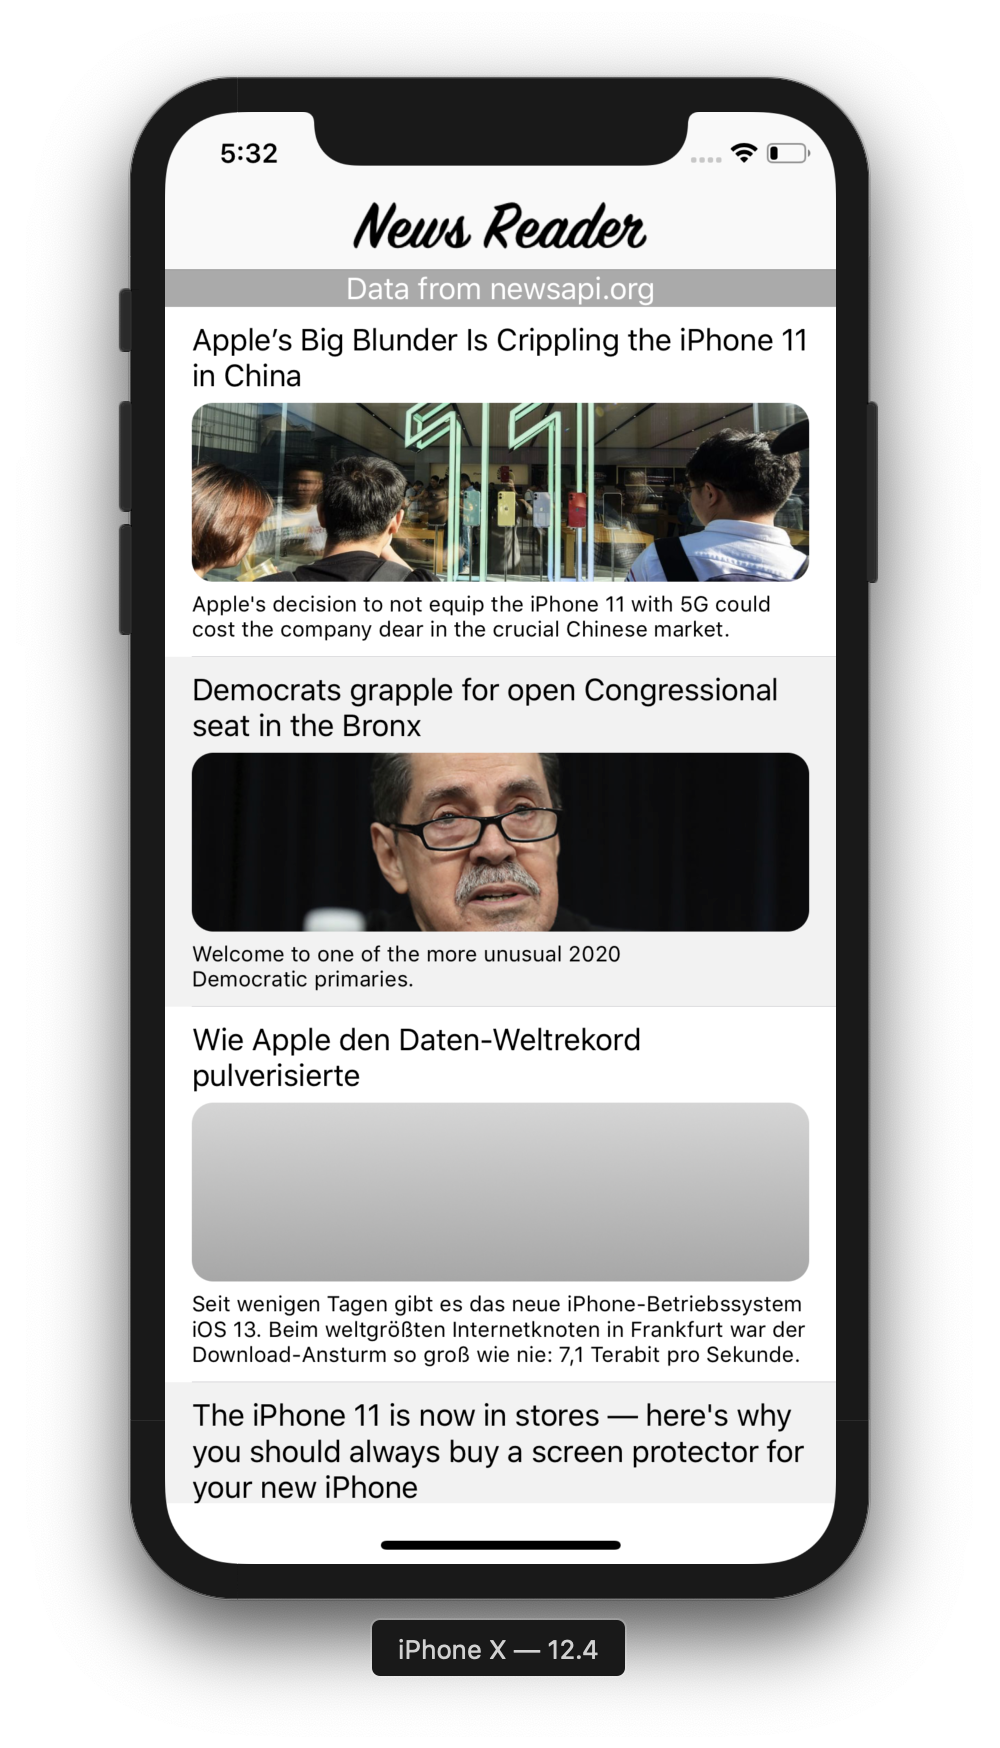
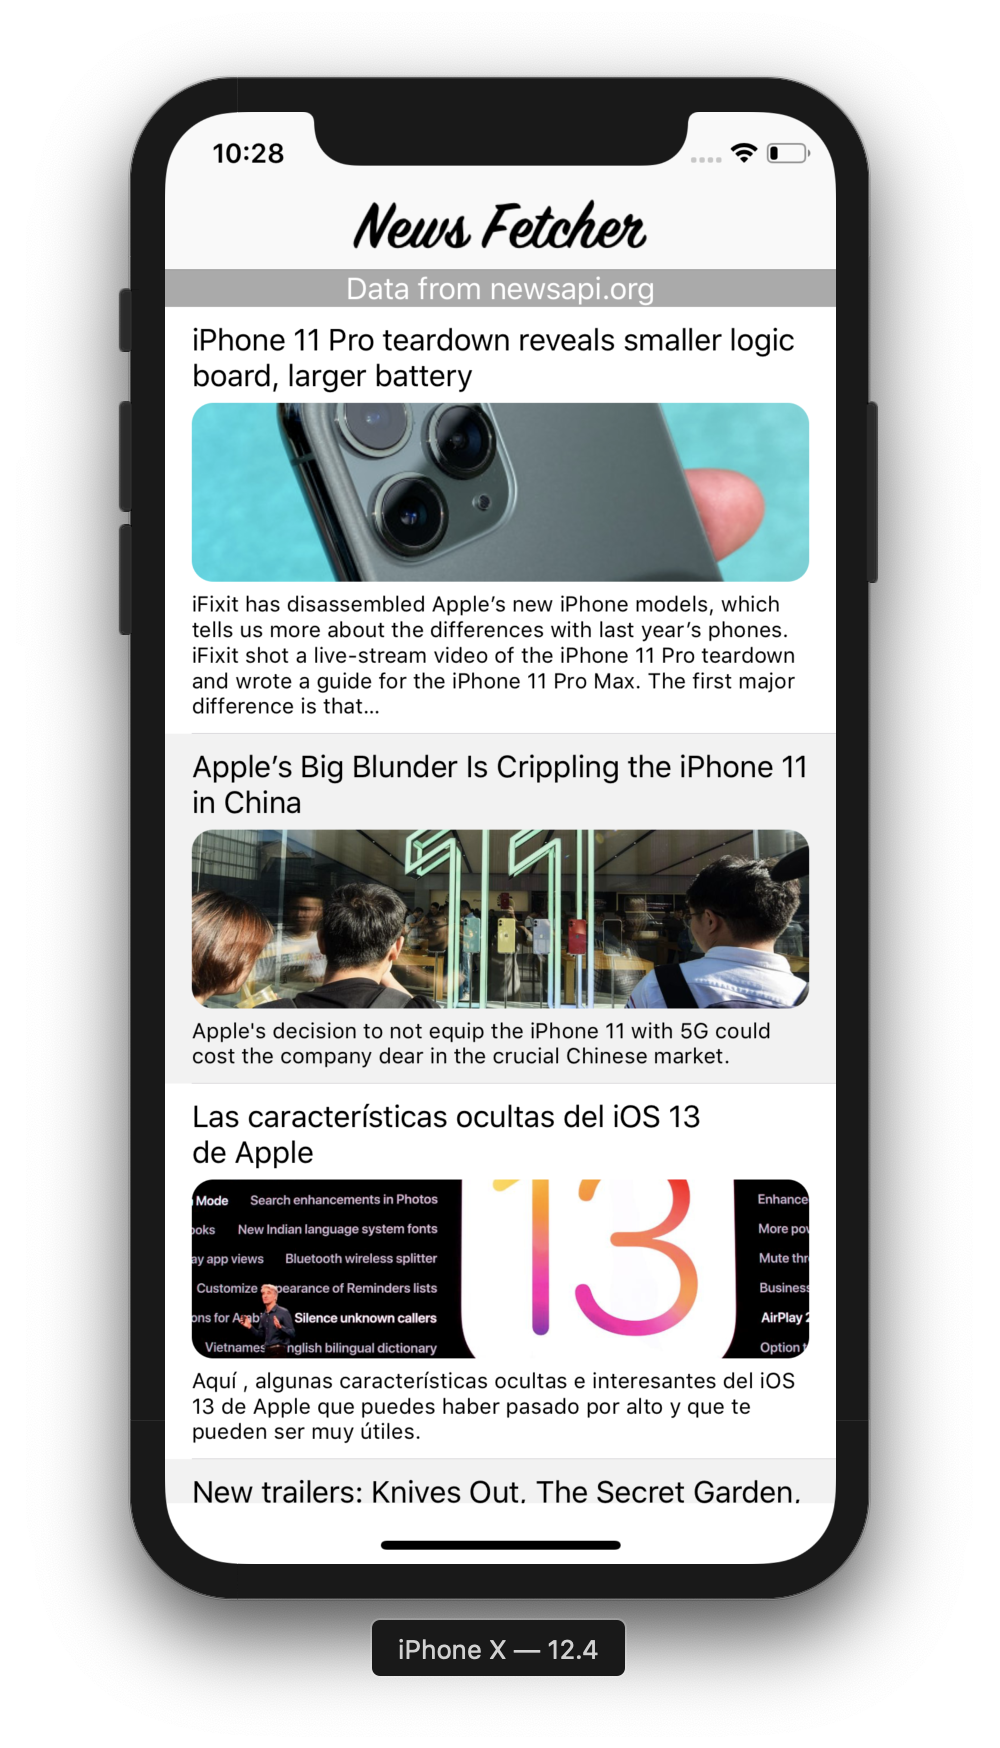
Customise newsapi.org disclaimer to be more consistent looking

diff --git a/Workshop4/Workshop4-Delightful.md b/Workshop4/Workshop4-Delightful.md
@@ -239,14 +239,15 @@ If this step fails, try running `pod repo update` first. This ensures that the `
 
 1. Run the app again and see that our navigation bar now has a unique background color.
 
-- Customise navigation bar
-  - Get a custom image from design team
-  - Tint the navigation bar to a color of your choice
-  - Add a right hand item that is information button which when tapped shows the "data from newsapi.org" in a delightful way :awesome:
-      - Transition to an InfoViewController that just shows static text?
-          - newsapi.org
-          - Cocoapod used
-          - Information about the author :)
+1. Now that we've made our navigation bar delightful, the "Data from newsapi.org" header is looking a bit bland. Tap on the label in `Main.storyboard`and update:
+    - **Background** to match our navigation bar
+    - Contents to something more fun like "_...from newsapi.org_ :newspaper:"
+
+1. Let's run our app and check how that looks...
+
+    <img src="images/simulator_navigation_bar_delightful.png" height="600"  title="Navigation bar with colored background and matching newsapi.org disclaimer" alt="Navigation bar with colored background and matching newsapi.org disclaimer">
+
+1. Perfect - our app is starting to look like something polished that could ship on the App Store!
 
 - Add parallax effect to images
    - Create method on ArticleCell to arbitrarily offset the image vertically within a container view
